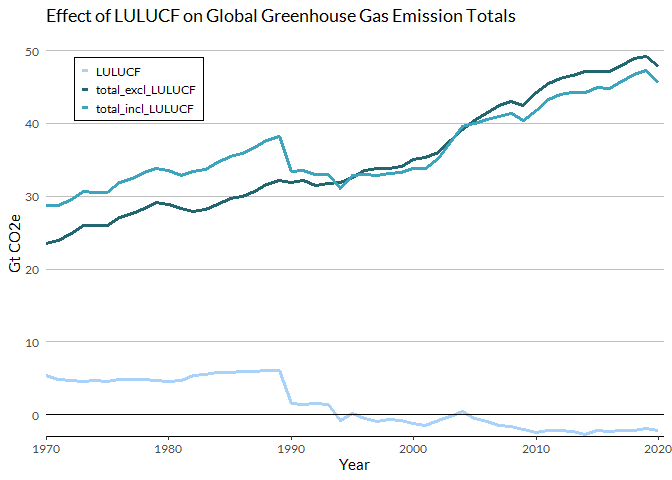
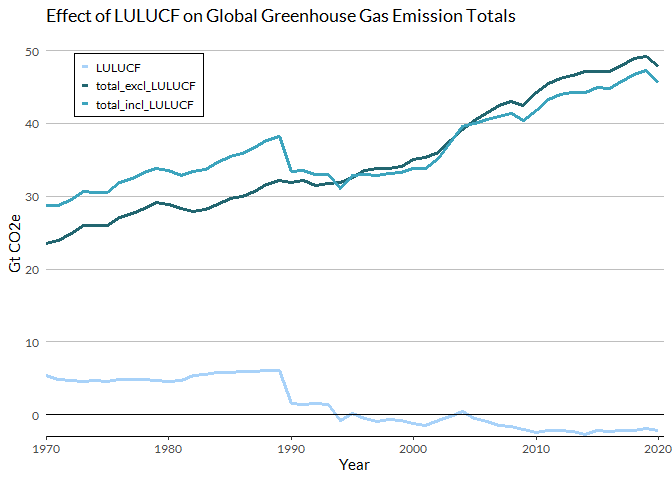
..

Changed region(s): [[0.125, 0.0938, 0.3125, 0.25]]

diff --git a/Missed-Benchmarks.md b/Missed-Benchmarks.md
@@ -77,7 +77,7 @@ global_totals_vs_lulucf <- global_totals_vs_lulucf %>%
   labs(x= "Year", y = "Gt CO2e", color = element_blank(),
        title = "Effect of LULUCF on Global Greenhouse Gas Emission Totals\n") +
   theme_classic() +
-  theme(legend.position = c(0.15, 0.9), 
+  theme(legend.position = c(0.15, 0.91), 
         legend.key.size = unit(0.2, "cm"), 
         legend.key.spacing.y = unit(.2, "cm"),
         legend.background = element_rect(fill = "white", color = 1), 
